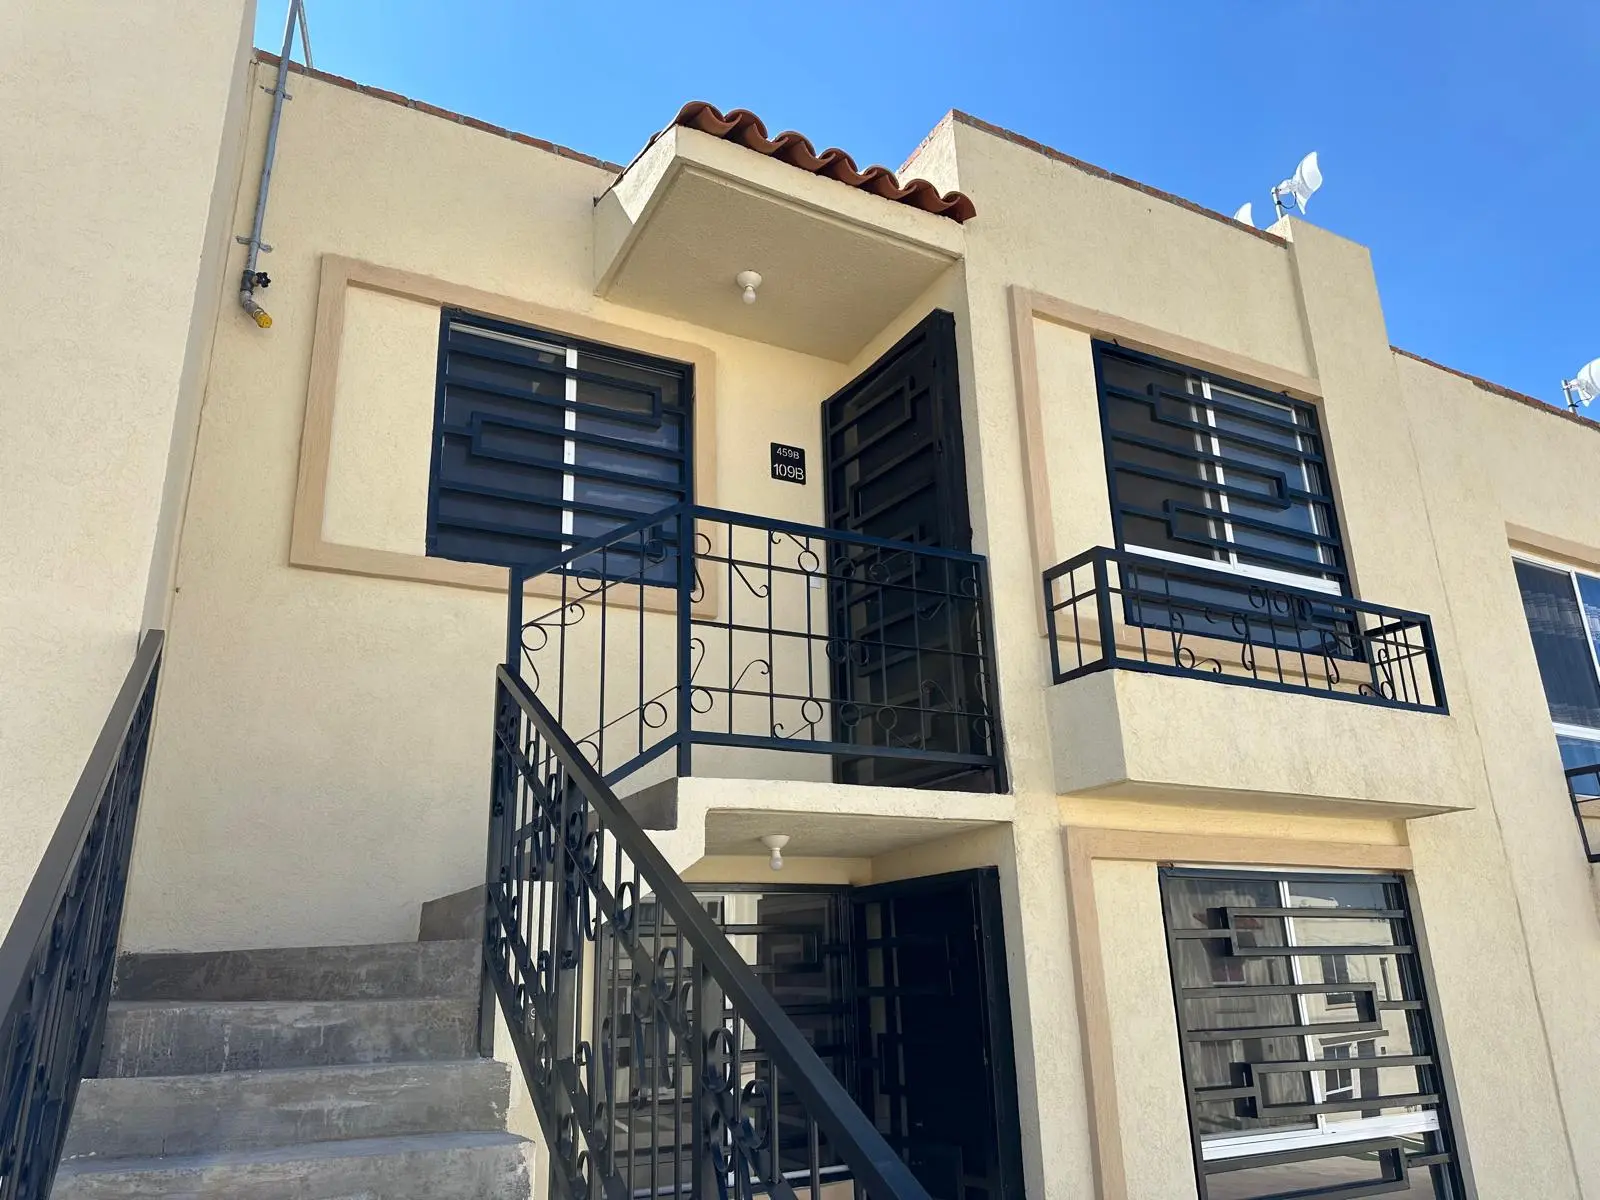
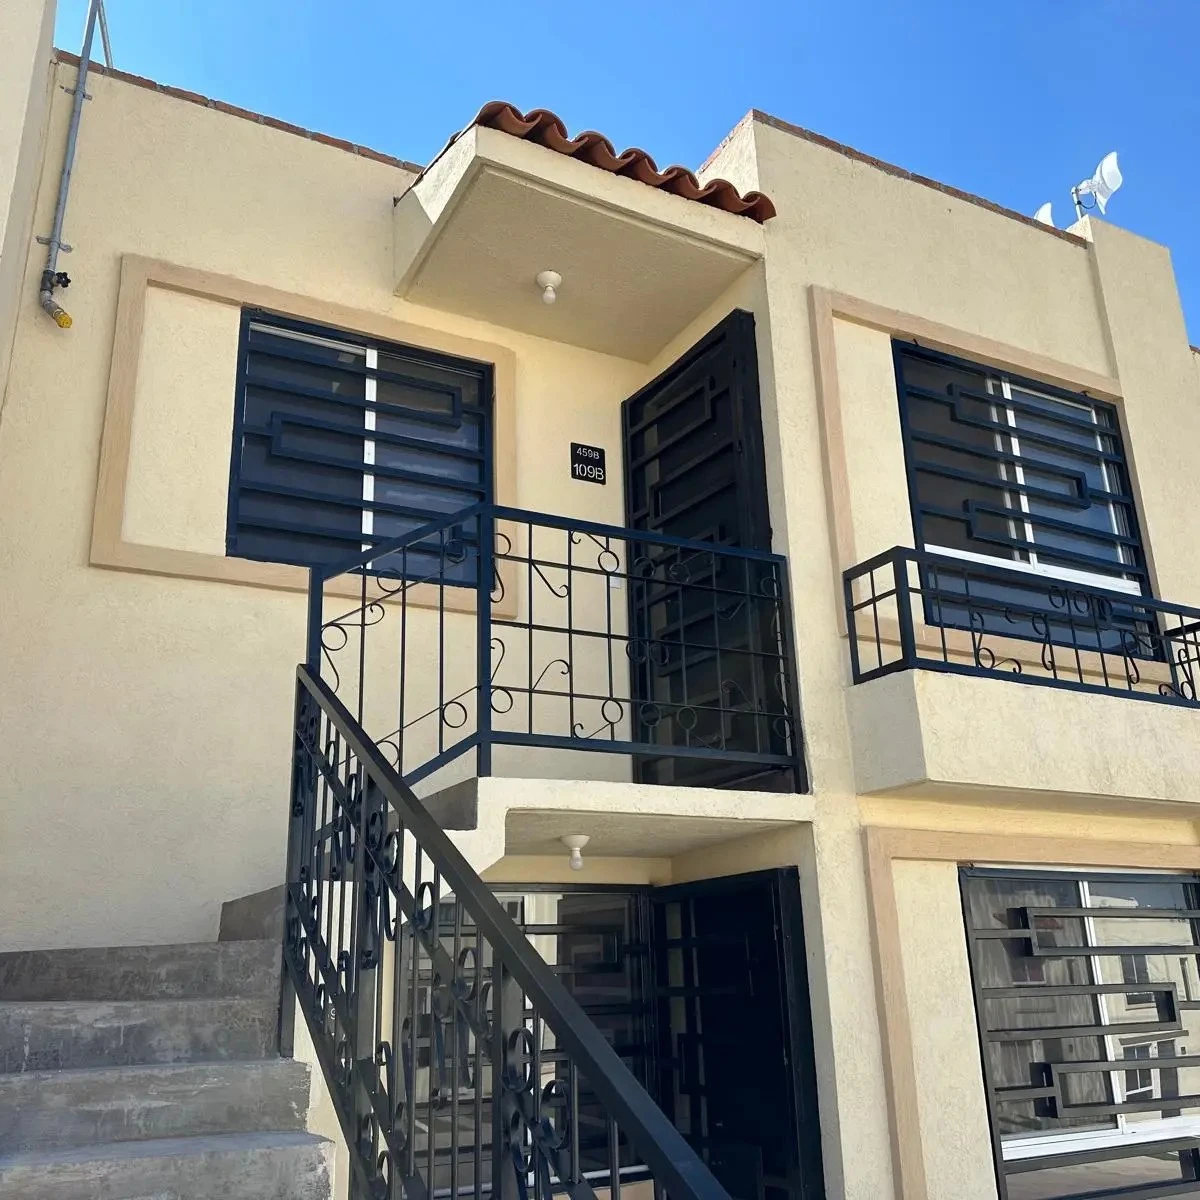
Fix IMG LIST TRY 4
IMG en lugar de DIV

diff --git a/index.html b/index.html
@@ -2473,7 +2473,7 @@
             <div class="list-scroller">
 
                 <a class="list-card" href="https://www.airbnb.mx/h/casaairelibre">
-                    <img src="img/list/casaairelibre.webp" alt="" class="list-img"></img>
+                    <img src="img/list/casaairelibre.webp" alt="Cover del anuncio" class="list-img"></img>
                     <div>
                         <p class="list-type">Residencia</p>   <p></p>
                         <p class="list-name-reviews">Casa al aire libre con cochera</p>
@@ -2482,7 +2482,7 @@
                 </a>  
 
                 <a class="list-card" href="https://www.airbnb.mx/h/depazonareal">
-                    <div alt="" class="list-img depazonareal"></div>
+                    <img src="img/list/depazonareal.webp" alt="Cover del anuncio" class="list-img"></img>
                     <div>
                         <p class="list-type">Departamento con servicios</p>   
                         <p class="list-name-reviews">Departamento con vista Zona Real | Piscina & Gym</p>
@@ -2491,7 +2491,7 @@
                 </a>  
 
                 <a class="list-card" href="https://www.airbnb.mx/h/casapbvistacalifornia">
-                    <div alt="" class="list-img casapbvistacalifornia"></div>
+                    <img src="img/list/casapbvistacalifornia.webp" alt="Cover del anuncio" class="list-img"></img>
                     <div>
                         <p class="list-type">Residencia</p>   
                         <p class="list-name-reviews">Cómoda casa en Residencial Vista California</p>
@@ -2500,7 +2500,7 @@
                 </a>  
 
                 <a class="list-card" href="https://www.airbnb.mx/h/casapavistacalifornia">
-                    <div alt="" class="list-img casapavistacalifornia"></div>
+                    <img src="img/list/casapavistacalifornia.webp" alt="Cover del anuncio" class="list-img"></img>
                     <div>
                         <p class="list-type">Residencia</p>   
                         <p class="list-name-reviews">Cómoda casa en Residencial Vista California | P.A.</p>

diff --git a/css/mobile-vertical.css b/css/mobile-vertical.css
@@ -544,18 +544,6 @@
         background-repeat: no-repeat;   /* Evita que la imagen se repita */
     }
 
-    .depazonareal{
-        background-image: url("/img/list/depazonareal.webp");
-    }
-
-    .casapbvistacalifornia{
-        background-image: url("/img/list/casapbvistacalifornia.webp");
-    }
-
-    .casapavistacalifornia{
-        background-image: url("/img/list/casapavistacalifornia.webp");
-    }
-
     .list-type{
         font-size: 1rem;
         font-weight: 500;
